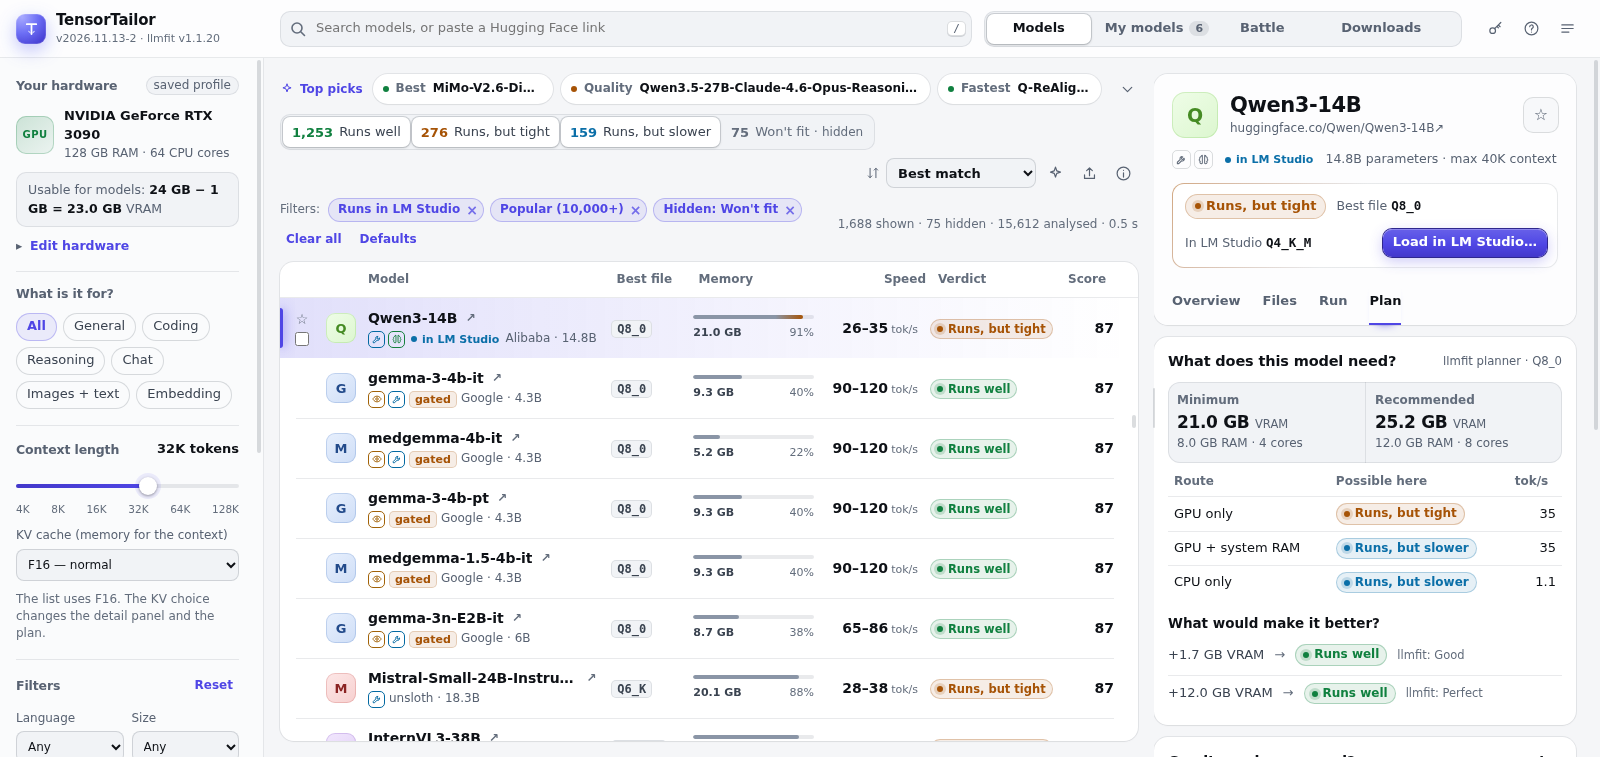
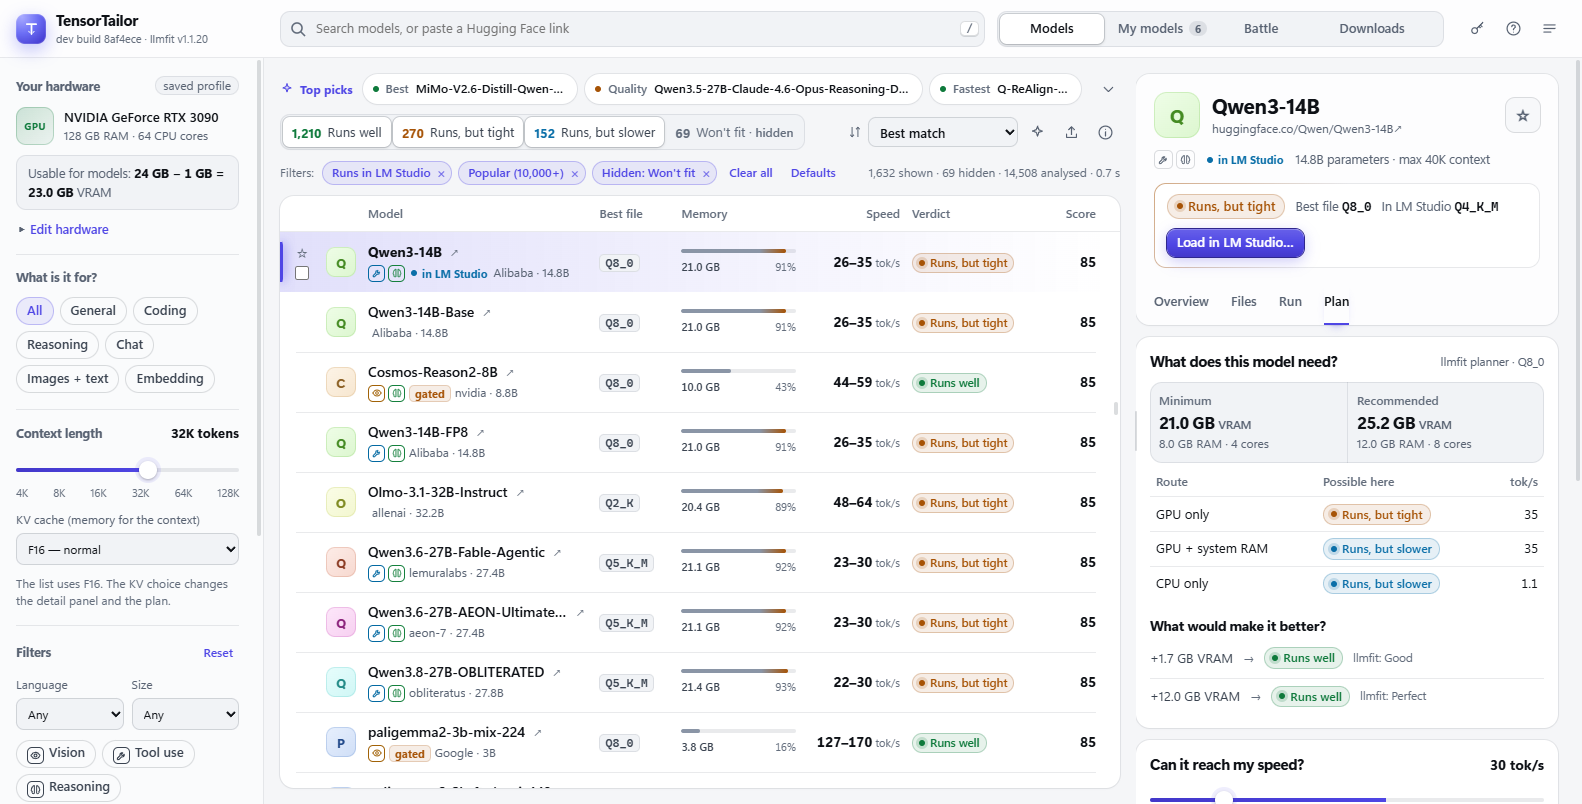
Implemented by Claude Opus 5.5: fix(web): screen review C: colours and contrast
Screen review of 2026-11-13, group C:
- C1: the green of "Runs well", NEW and MTP (light theme) is a little darker: 4.74:1 on its soft background
  (was 4.39:1, below WCAG AA 4.5:1).
- C2: labels on the chosen row of "Which file fits?" and the Files table keep their plain background, so the
  text stays readable (was 3.8-4.2:1 on the blue-grey row).
- C3: Won't fit rows and a knocked-out Battle card are dimmed to 75 % (was 60 %: 2.4-2.7:1 text).
- C4: a damaged download ("SHA-256 differs") has a red bar.
- C5: sentences under a download (errors, notes, the SHA-256 line) are in the normal font; only the hash, names
  and paths keep the code font.
Help rows (Won't fit, SHA-256 differs) updated; tools/test-screen-review.json got a C step (7 steps OK).
Full suite: 31 tests, 0 problems. Pictures: models-light, plan-light, downloads-dark.

diff --git a/web/app.html b/web/app.html
@@ -39,7 +39,7 @@
   --accent-soft: rgba(79, 70, 229, .09);
   --accent-text: #ffffff;
   --accent-ring: rgba(79, 70, 229, .3);
-  --perfect: #10803f;
+  --perfect: #0f7a3c; /* 4.7:1 on its own soft background (was #10803f: 4.39, below WCAG AA) */
   --perfect-soft: rgba(16, 128, 63, .1);
   --good: #0b6fa8;
   --good-soft: rgba(11, 111, 168, .1);
@@ -257,7 +257,7 @@ input[type="range"] { width: 100%; accent-color: var(--accent); }
 
 .row[aria-selected="true"] .m-name .t { font-weight: 700; }
 .row[aria-selected="true"].is-tight .m-name, .row[aria-selected="true"].is-tight .num { opacity: 1; }
-.row.is-tight .m-name, .row.is-tight .num { opacity: .6; }
+.row.is-tight .m-name, .row.is-tight .num { opacity: .75; }
 .row-acts { display: flex; align-items: center; }
 .row input[type="checkbox"] { accent-color: var(--accent); margin: 0; }
 .star { border: 0; background: transparent; border-radius: 6px; color: var(--faint); line-height: 1; padding: 0; }
@@ -406,7 +406,7 @@ pre.block { margin: 8px 0 0; padding: 10px; border-radius: 9px; background: var(
 .fighters { display: grid; grid-template-columns: repeat(4, 1fr); }
 .fighter { position: relative; }
 .fighter.win { border-color: var(--perfect); }
-.fighter.out { opacity: .6; }
+.fighter.out { opacity: .75; }
 .crown { position: absolute; border-radius: 99px; }
 .pts { font-size: 34px; font-weight: 800; font-variant-numeric: tabular-nums; line-height: 1.1; }
 .round { display: grid; gap: 8px; align-items: center; color: var(--muted); }
@@ -1032,6 +1032,15 @@ details.by-hand .hint { margin-top: 6px; }
 .tray-chip { flex: 0 1 auto; min-width: 0; max-width: 220px; }
 .tray-chip .t { min-width: 0; overflow: hidden; text-overflow: ellipsis; white-space: nowrap; }
 .tray-chip button { flex: none; }
+/* ==== Screen review 2026-11-13: colours ==== */
+/* C2: on the chosen row of "Which file fits?" and the Files table, labels keep the background they have on a
+   plain row, so their text stays readable (it was 3.9:1 on the blue-grey row). */
+.ladder tr.pick .badge, .ftable tr.pick .badge, .ftable tr.pick .rec { background-color: color-mix(in srgb, currentColor 10%, var(--panel)); }
+/* C4: a damaged download ("SHA-256 differs") has a red bar. */
+.dlbar.bad span { background: var(--tight); }
+/* C5: sentences under a download are in the normal font; only names, paths and hashes use the code font. */
+.dlnote { font-size: 12px; color: var(--muted); margin-top: 3px; line-height: 1.4; }
+.dlnote .mono { font-family: var(--mono); font-size: 11.5px; }
 </style>
 </head>
 <body>
@@ -1257,7 +1266,7 @@ details.by-hand .hint { margin-top: 6px; }
       <dt><span class="badge perfect">Runs well</span></dt><dd>Fits fully in VRAM with room to spare.</dd>
       <dt><span class="badge marginal">Runs, but tight</span></dt><dd>Fits in VRAM, but with little room left. A longer context or another program can push it over.</dd>
       <dt><span class="badge good">Runs, but slower</span></dt><dd>Part of the model runs from system RAM, or there is no GPU.</dd>
-      <dt><span class="badge tight">Won't fit</span></dt><dd>VRAM and RAM together are too small.</dd>
+      <dt><span class="badge tight">Won't fit</span></dt><dd>VRAM and RAM together are too small. In the list such a row is a little paler (hidden by default: the tile <b>Won't fit</b> shows them).</dd>
       <dt>GPU</dt><dd>Everything in VRAM. The list shows no line under the verdict then.</dd>
       <dt>CPU+GPU</dt><dd>Part in VRAM, part in system RAM.</dd>
       <dt>MoE offload</dt><dd>A "mixture of experts" model: it has many experts but uses only a few per word. The unused experts wait in system RAM, so even a very big model can run, more slowly.</dd>
@@ -1403,7 +1412,7 @@ details.by-hand .hint { margin-top: 6px; }
       <dt>My models: Similar models and disk space</dt><dd>Below the list: your models that come from the same base model (fine-tunes, uncensored versions, other quants), with their size on disk, verdict, best setting and folder (click to copy). Hugging Face says per repo which model it was made from; TensorTailor follows that up to the first model (remembered 30 days, <b>Check again</b> asks anew). It starts at the repo of the model's folder, else at the matched model (also a "from LM Studio" row named after its repo). Without an answer, the same design in the file header groups them. "Keeping only one of them would free up to …" = the group minus its smallest model. The label <span class="tag">3 similar</span> in the My models table marks them. TensorTailor never deletes anything: remove a model in LM Studio or in File Explorer.</dd>
       <dt>Battle</dt><dd>2 to 4 models (checkbox in the list, or <b>Add to battle</b> in Top picks) compete on this PC in four rounds: quality, speed, memory and context. One winner is named; with the same rounded points it says "a tie" and names the winner on the decimals. These battle points are not llmfit's Score (list, Compare), so the order can differ.</dd>
       <dt>Selected · Compare</dt><dd>Tick the box of a model (or press <kbd>C</kbd>), at most 4. A strip <b>Selected:</b> appears at the bottom with their names (a long name ends in "…"; point at it for the full name; × removes one). <b>Compare</b> opens the window "Compare models" with them side by side (2 or more); <b>Battle</b> opens the Battle view; <b>Clear</b> removes all ticks.</dd>
-      <dt>Downloads</dt><dd>Files you download (tab Files → <b>Download</b>). Choose LM Studio's models folder once; each file goes to the publisher's and repo's folder, so LM Studio sees it at once. Files come in parts, so <b>Resume</b> goes on after a crash. The SHA-256 of the parts is checked before they are joined, so a damaged download never appears in LM Studio's folder; at the end the joined file is read back from disk and checked again (<b>Check again</b> reads it once more), and only then are the parts removed. If the joined file differs, TensorTailor removes it and joins once more from the checked parts; if it differs again (a memory or disk problem on this PC), it is removed and the parts stay. <b>SHA-256 differs</b> for a file that was already in the folder: <b>Download again</b> asks you, deletes it and downloads it anew. <b>Remove</b> during a download stops it and removes its parts. <b>Download again</b> first asks Hugging Face for the file's newest size and SHA-256 (a new version there is not called "damaged"). A download remembers the folder it went into: after <b>Change folder</b>, Resume, Check again and Download again ask you to choose that folder again. A different file with the same name is never overwritten. A vision model's projector (mmproj) is taken along, and all parts of a split model ("part 1 of 3") are downloaded together. <b>Remove from list</b> never deletes a finished model file.</dd>
+      <dt>Downloads</dt><dd>Files you download (tab Files → <b>Download</b>). Choose LM Studio's models folder once; each file goes to the publisher's and repo's folder, so LM Studio sees it at once. Files come in parts, so <b>Resume</b> goes on after a crash. The SHA-256 of the parts is checked before they are joined, so a damaged download never appears in LM Studio's folder; at the end the joined file is read back from disk and checked again (<b>Check again</b> reads it once more), and only then are the parts removed. If the joined file differs, TensorTailor removes it and joins once more from the checked parts; if it differs again (a memory or disk problem on this PC), it is removed and the parts stay. <b>SHA-256 differs</b> (red bar) for a file that was already in the folder: <b>Download again</b> asks you, deletes it and downloads it anew. <b>Remove</b> during a download stops it and removes its parts. <b>Download again</b> first asks Hugging Face for the file's newest size and SHA-256 (a new version there is not called "damaged"). A download remembers the folder it went into: after <b>Change folder</b>, Resume, Check again and Download again ask you to choose that folder again. A different file with the same name is never overwritten. A vision model's projector (mmproj) is taken along, and all parts of a split model ("part 1 of 3") are downloaded together. <b>Remove from list</b> never deletes a finished model file.</dd>
       <dt>Favorites ★</dt><dd>Click the star next to a model (or press <kbd>W</kbd>) to make it a favorite. <b>Only my favorites</b> (filters) shows just those. My models shows the same stars for your LM Studio models that are matched to llmfit's list; click a star there to add or remove it too.</dd>
       <dt>Token key (top right)</dt><dd>The key button left of the question mark: grey with no Hugging Face token, green with a small dot when a token is set. Click it to set, change or remove the token (only needed for gated models; it stays in this browser tab).</dd>
       <dt>Tools (top right)</dt><dd>The button with three lines (in the open menu, the arrow keys, Home and End move between the items; Esc closes it). <b>Catalog</b>: where the list comes from, and "Fetch new models" from Hugging Face. <b>Hugging Face token: set / not set</b>: the same window as the key button (a read-only token for gated models; it stays only in this browser tab). <b>Light or dark</b> (key <kbd>T</kbd>). <b>About and licenses</b>.</dd>
@@ -4553,10 +4562,10 @@ function dlRow(j) {
   const ok = j.status === "done" && j.gotSha;
   const icon = ["done"].includes(j.status) ? '<path d="m5 12 5 5 9-10"/>' : ["failed", "mismatch"].includes(j.status) ? '<path d="M12 8v5M12 16.5h.01"/><circle cx="12" cy="12" r="9"/>' : '<path d="M12 4v11m-5-5 5 5 5-5M5 20h14"/>';
   return `<tr><td><div class="dl-f"><span class="dl-ic s-${esc(j.status)}" aria-hidden="true"><svg viewBox="0 0 24 24">${icon}</svg></span><div style="min-width:0"><div class="fname">${esc(j.path.split("/").pop())}</div><div class="hash">${esc(j.repo)}${j.path.includes("/") ? " · " + esc(j.path) : ""}</div></div></div></td><td class="r">${fmtSize(j.bytes / 1e9)}</td>
-    <td style="min-width:260px"><div class="bar dlbar${j.status === "done" && j.gotSha ? " done" : ""}${j.status === "downloading" ? " run" : ""}"><span style="width:${pct(p)}%"></span></div><div class="dlstate ${j.status}">${esc(text)}</div>
-    ${ok ? `<div class="hash" style="color:var(--perfect)">SHA-256 read back from disk matches Hugging Face: <span data-copy="${esc(j.gotSha)}" data-what="SHA-256" title="${esc(j.gotSha)}&#10;Click to copy" style="cursor:copy">${esc(j.gotSha.slice(0, 16))}…</span></div>` : ""}
+    <td style="min-width:260px"><div class="bar dlbar${j.status === "done" && j.gotSha ? " done" : ""}${j.status === "downloading" ? " run" : ""}${j.status === "mismatch" ? " bad" : ""}"><span style="width:${pct(p)}%"></span></div><div class="dlstate ${j.status}">${esc(text)}</div>
+    ${ok ? `<div class="dlnote" style="color:var(--perfect)">SHA-256 read back from disk matches Hugging Face: <span class="mono" data-copy="${esc(j.gotSha)}" data-what="SHA-256" title="${esc(j.gotSha)}&#10;Click to copy" style="cursor:copy">${esc(j.gotSha.slice(0, 16))}…</span></div>` : ""}
     ${j.rename ? `<div class="warn-box" style="margin-top:6px">The file is still called <b>${esc(j.path.split("/").pop())}.tt-tmp</b>, so LM Studio does not see it yet. Windows did not allow the rename (${esc(j.rename)}). Press <b>Rename now</b>, or in Explorer remove <b>.tt-tmp</b> from the end of the name.</div>` : ""}
-    ${j.error ? `<div class="hash" style="color:var(--tight)">${esc(j.error)}</div>` : ""}${j.note ? `<div class="hash">${esc(j.note)}</div>` : ""}${j.diskNote && ["queued", "downloading", "assembling", "paused"].includes(j.status) ? `<div class="hash" style="color:var(--marginal)">${esc(j.diskNote)}</div>` : ""}${j.why ? `<div class="hash">${esc(j.why)}</div>` : ""}</td>
+    ${j.error ? `<div class="dlnote" style="color:var(--tight)">${esc(j.error)}</div>` : ""}${j.note ? `<div class="dlnote">${esc(j.note)}</div>` : ""}${j.diskNote && ["queued", "downloading", "assembling", "paused"].includes(j.status) ? `<div class="dlnote" style="color:var(--marginal)">${esc(j.diskNote)}</div>` : ""}${j.why ? `<div class="dlnote">${esc(j.why)}</div>` : ""}</td>
     <td class="r" style="white-space:nowrap">${acts.join(" ")}</td></tr>`;
 }
 function fmtTime(s) { s = Math.round(s); return s >= 3600 ? `${Math.floor(s / 3600)} h ${Math.round((s % 3600) / 60)} min` : s >= 60 ? `${Math.floor(s / 60)} min ${s % 60} s` : `${s} s`; }
